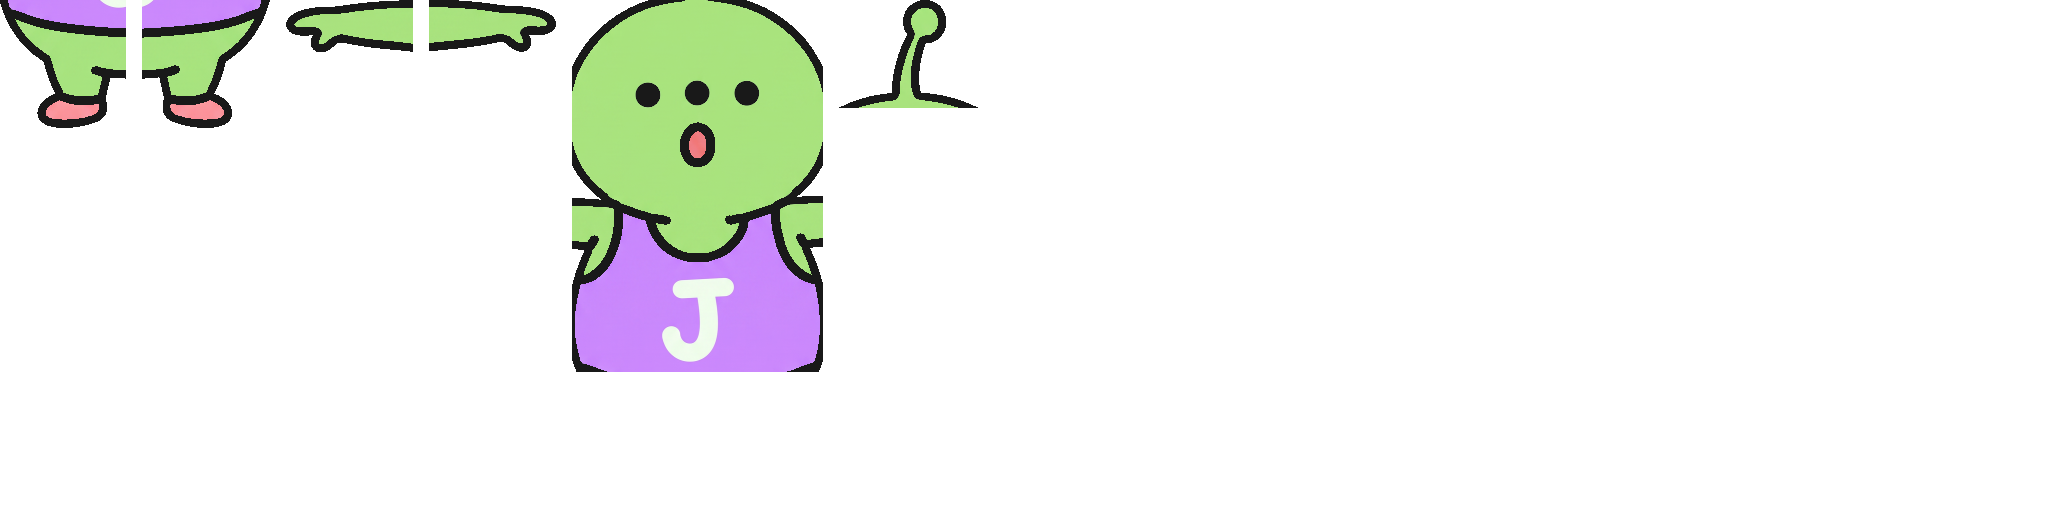
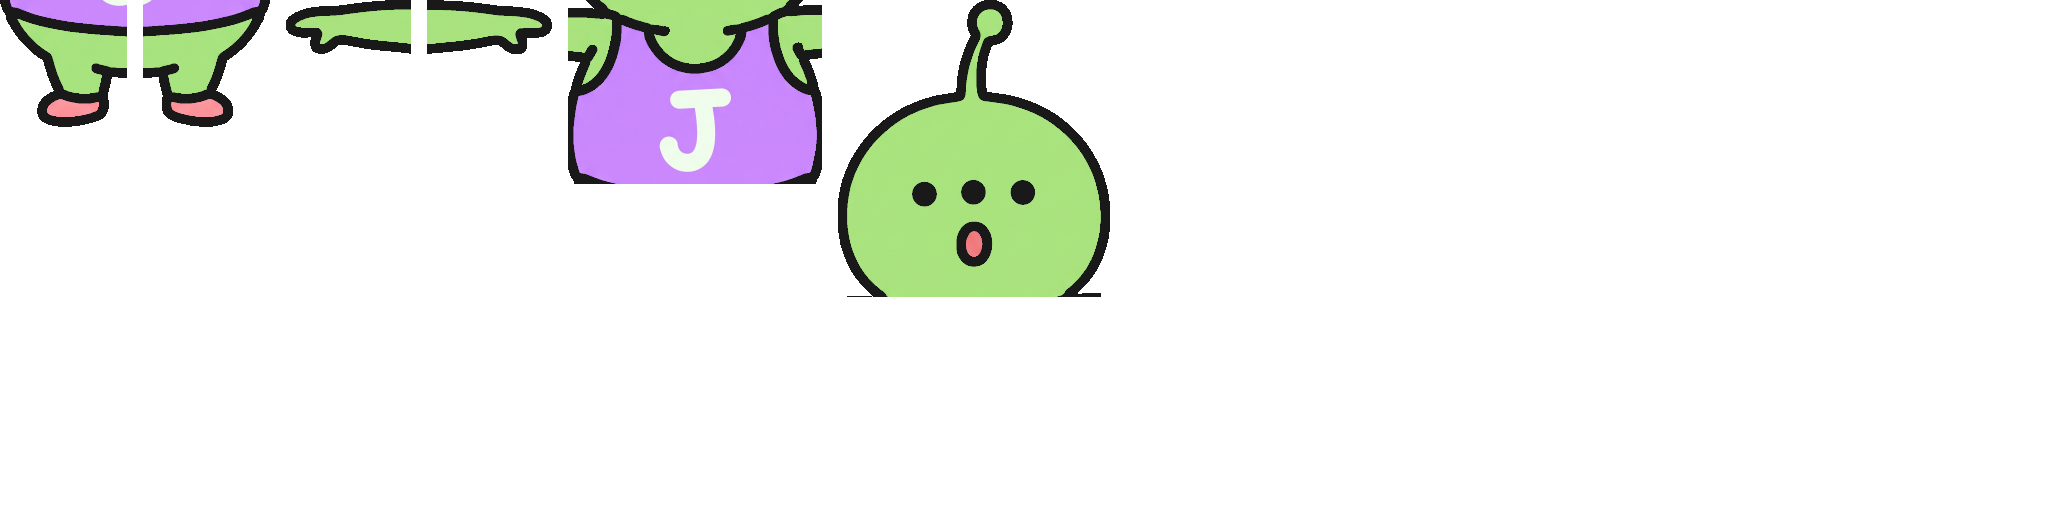
Petit des Aliens : la tête n'est plus rognée sur les côtés
Sans vrai cou, la découpe coupait à la base de l'antenne : la tête restait dans le
tronc, rogné à la largeur du débardeur. La découpe cherche maintenant le cou sous la
ligne la plus large de la tête quand la coupe tombe au-dessus. Seul le Petit change
(les sept autres aliens sortent identiques) ; tenue miroir orange régénérée.

Claude-Session: https://claude.ai/code/session_01QntoMQSENnbiTTyKmfYMA3

diff --git a/src/game/skins/cartoon/rigEquipes.ts b/src/game/skins/cartoon/rigEquipes.ts
@@ -72,15 +72,15 @@ export const RIGS_EQUIPES: Record<string, Rig> = {
   },
   'aliens-petit': {
     hauteur: 581,
-    bras: 45.0,
-    main: [-122.5, 0.0],
+    bras: 47.0,
+    main: [-120.5, 0.0],
     pieces: {
-      jambeG: { cadre: [0, 0, 126, 128], pivot: [63.0, 9.0], pos: [-63.0, -119.0] },
-      jambeD: { cadre: [142, 0, 128, 128], pivot: [63.0, 9.0], pos: [63.0, -119.0] },
-      brasG: { cadre: [286, 0, 127, 52], pivot: [122.5, 24.0], pos: [-120.5, -260.0] },
-      brasD: { cadre: [429, 0, 127, 52], pivot: [4.5, 26.0], pos: [121.5, -260.0] },
-      tronc: { cadre: [572, 0, 251, 372], pivot: [125.0, 363.0], pos: [0.0, -119.0] },
-      tete: { cadre: [839, 0, 139, 108], pivot: [69.0, 99.0], pos: [0.0, -482.0] },
+      jambeG: { cadre: [0, 0, 127, 127], pivot: [63.0, 9.0], pos: [-64.0, -118.0] },
+      jambeD: { cadre: [143, 0, 127, 127], pivot: [63.0, 9.0], pos: [63.0, -118.0] },
+      brasG: { cadre: [286, 0, 125, 54], pivot: [120.5, 25.0], pos: [-122.5, -260.0] },
+      brasD: { cadre: [427, 0, 125, 54], pivot: [4.5, 28.0], pos: [122.5, -260.0] },
+      tronc: { cadre: [568, 0, 254, 184], pivot: [127.0, 175.0], pos: [0.0, -118.0] },
+      tete: { cadre: [838, 0, 272, 297], pivot: [136.0, 288.0], pos: [0.0, -293.0] },
     },
   },
   'aliens-populaire': {

diff --git a/scripts/decoupe.py b/scripts/decoupe.py
@@ -87,6 +87,12 @@ def humanoide(img):
     haut = np.nonzero(a.any(1))[0].min()
     zone = range(haut + (by0 - haut) // 3, by0)
     cou = min(zone, key=lambda y: largeur[y] if largeur[y] > 0 else 10**9)
+    # Sans vrai cou (grosse tête posée sur les épaules), la ligne la plus étroite tombe dans une
+    # antenne ou une mèche, au-dessus de la tête : on coupe alors sous la ligne la plus large de la
+    # tête, juste avant les épaules (sinon la tête reste dans le tronc, rognée à sa largeur).
+    yt = haut + int(np.argmax(largeur[haut : by0 - 2 * TRAIT]))
+    if cou < yt:
+        cou = min(range(yt, by0 - TRAIT), key=lambda y: largeur[y])
     # Entrejambe : première ligne sous les bras où le bas du corps se sépare en deux.
     milieu = (tx0 + tx1) // 2
     entre = None
